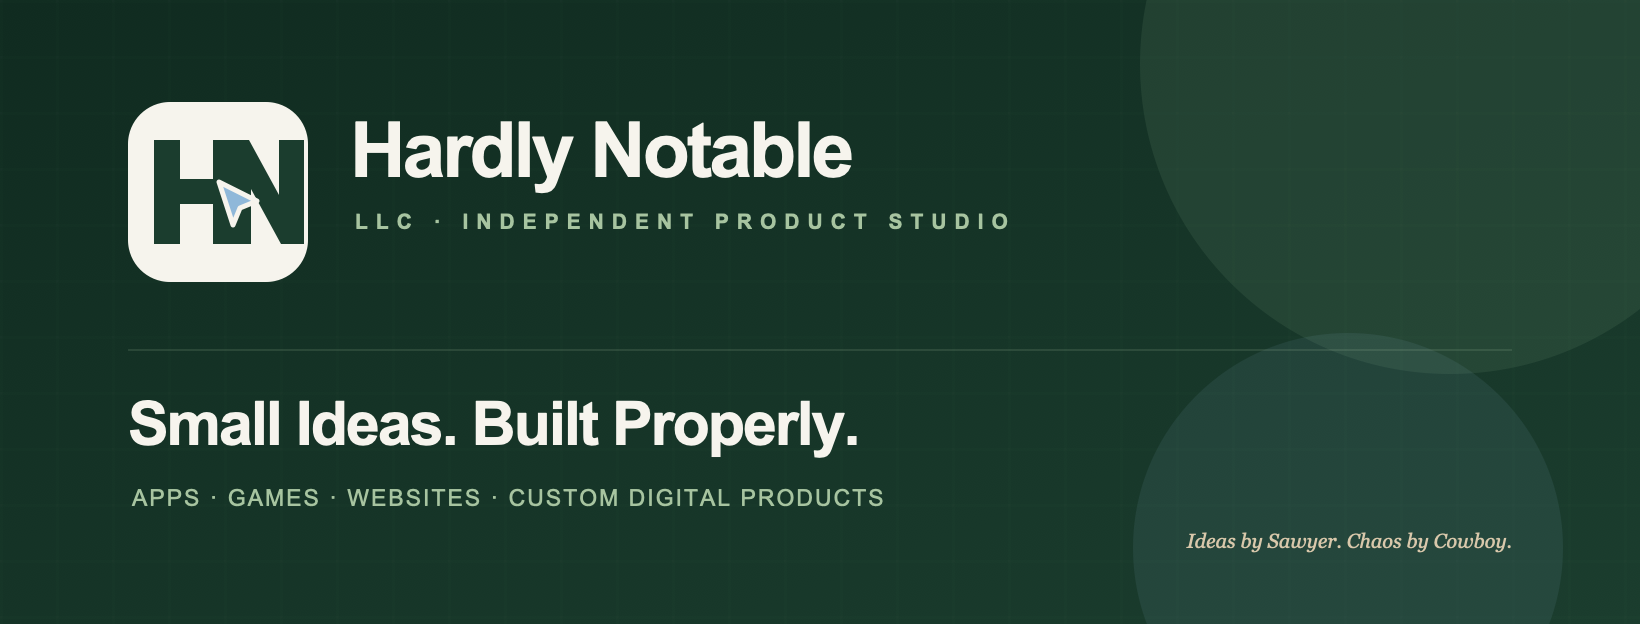
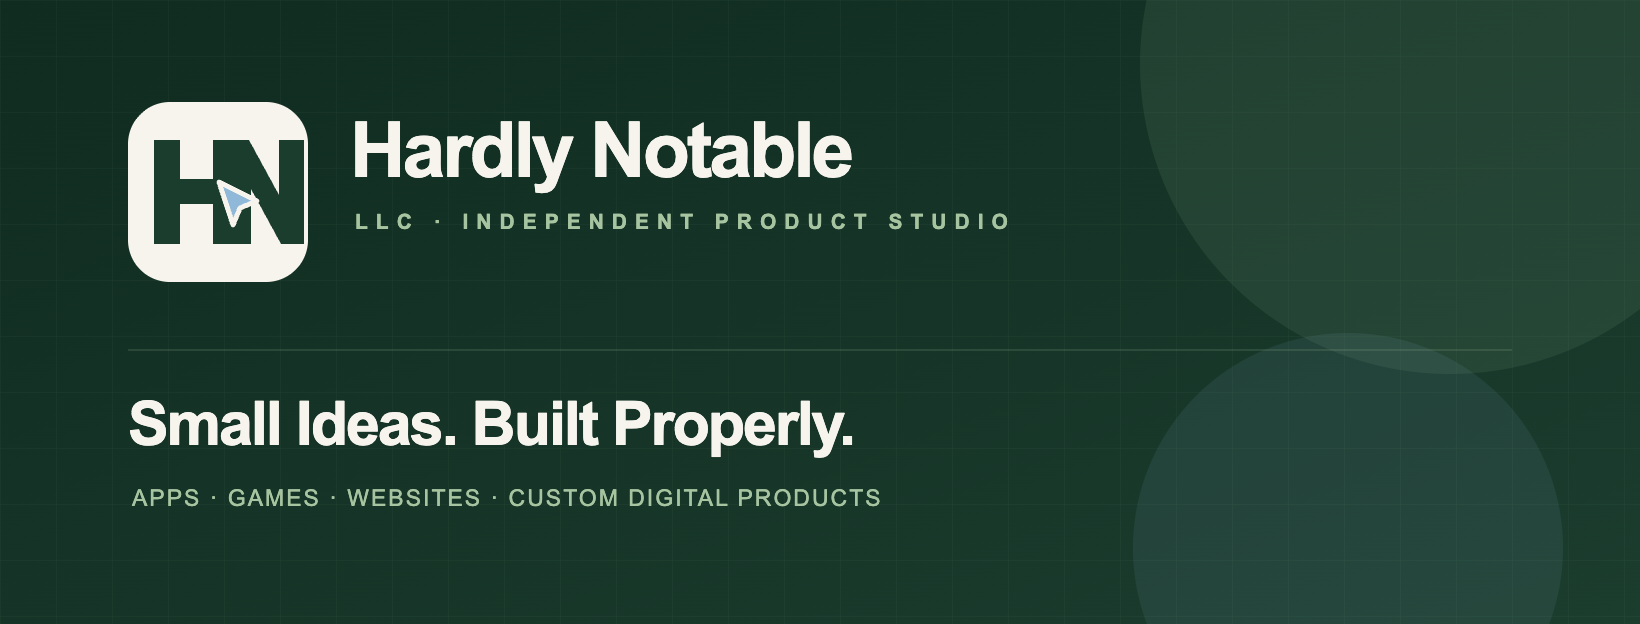
Make public studio content and inquiry wording brand-only

diff --git a/index.html b/index.html
@@ -15,18 +15,18 @@
   <meta property="og:title" content="Hardly Notable — Websites, Apps &amp; Business Tools">
   <meta property="og:description" content="A product studio turning good ideas into polished, working digital products.">
   <meta property="og:url" content="https://hardlynotable.com/">
-  <meta property="og:image" content="https://hardlynotable.com/assets/social/hn-facebook-cover.png">
+  <meta property="og:image" content="https://hardlynotable.com/assets/social/hn-facebook-cover.png?v=brand-20261021">
   <meta property="og:image:width" content="1640">
   <meta property="og:image:height" content="624">
   <meta property="og:image:alt" content="Hardly Notable LLC — Small Ideas. Built Properly.">
   <meta name="twitter:card" content="summary_large_image">
-  <meta name="twitter:image" content="https://hardlynotable.com/assets/social/hn-facebook-cover.png">
+  <meta name="twitter:image" content="https://hardlynotable.com/assets/social/hn-facebook-cover.png?v=brand-20261021">
   <script type="application/ld+json">{"@context":"https://schema.org","@type":"ProfessionalService","name":"Hardly Notable LLC","url":"https://hardlynotable.com/","logo":"https://hardlynotable.com/assets/social/hn-profile.png","description":"Independent product studio designing and building apps, websites, prototypes, and custom digital products.","slogan":"Small Ideas. Built Properly.","email":"hello@hardlynotable.com","areaServed":"US","sameAs":["https://www.instagram.com/hardlynotableco/","https://www.tiktok.com/@hardlynotableco","https://www.facebook.com/profile.php?id=61594366527522"]}</script>
 </head>
 <body><a class="skip-link" href="#main">Skip to content</a>
-<header class="site-header" id="top"><div class="shell nav-inner"><a class="brand" href="/" aria-label="Hardly Notable home"><img src="/assets/social/hn-profile.svg" width="44" height="44" alt=""><span>Hardly Notable<small>Independent product studio</small></span></a><nav class="desktop-nav" aria-label="Primary navigation"><a href="/websites/">Websites · $750</a><a href="/apps/">App development</a><a href="#selected-work">Selected work</a><a href="#work">Our apps</a><a class="button small" href="/start-a-project/">Discuss your project ↗</a></nav><details class="mobile-nav"><summary>Menu ＋</summary><nav aria-label="Mobile navigation"><a href="/websites/">Websites · $750</a><a href="/apps/">App development</a><a href="#selected-work">Selected work</a><a href="#work">Our apps</a><a href="#about">The studio</a><a href="/start-a-project/">Start a project ↗</a></nav></details></div></header>
+<header class="site-header" id="top"><div class="shell nav-inner"><a class="brand" href="/" aria-label="Hardly Notable home"><img src="/assets/social/hn-profile.svg" width="44" height="44" alt=""><span>Hardly Notable<small>Independent product studio</small></span></a><nav class="desktop-nav" aria-label="Primary navigation"><a href="/websites/">Websites · $750</a><a href="/apps/">App development</a><a href="#selected-work">Selected work</a><a href="#work">Our apps</a><a class="button small" href="/start-a-project/">Discuss your project ↗</a></nav><details class="mobile-nav"><summary>Menu ＋</summary><nav aria-label="Mobile navigation"><a href="/websites/">Websites · $750</a><a href="/apps/">App development</a><a href="#selected-work">Selected work</a><a href="#work">Our apps</a><a href="/start-a-project/">Start a project ↗</a></nav></details></div></header>
 <main id="main"><section class="hero shell client-hero" aria-labelledby="hero-title"><div class="hero-topline"><p class="eyebrow">Independent studio. Built around your business.</p><p class="location">Oklahoma · Working with people everywhere</p></div><div class="hero-grid"><div><h1 id="hero-title">Websites and custom apps<br><em>for small businesses.</em></h1><p class="studio-proposition">Websites, apps and practical tools for small businesses and founders. Clear scope, thoughtful design, and a useful thing you can put to work.</p><div class="hero-actions"><a class="button" href="/websites/">See the $750 website package</a><a class="button outline" href="/apps/">Explore custom apps ↗</a></div><p class="hero-detail">One-page websites from $750. Apps and custom tools quoted to fit the project.</p></div><aside class="client-proof" aria-label="Example business website layout"><div class="browser-chrome"><i></i><i></i><i></i><span>A service business, clearly presented</span></div><div class="mini-site"><div class="mini-nav">FIELDWORK <span>LAWN &amp; PROPERTY CARE</span></div><p class="eyebrow">A little care goes a long way.</p><h2>A yard you can<br>come home to.</h2><div class="mini-landscape" aria-hidden="true"><span></span><span></span><span></span></div><div class="mini-bottom"><strong>Seasonal cleanups.<br>Everyday peace of mind.</strong><a href="/examples/fieldwork/">Explore the example ↗</a></div></div><p class="demo-caption">Design concept by HN · Fictional business, not client work.</p></aside></div></section><section class="package-band" id="website-package"><div class="shell package-layout"><div><p class="eyebrow">A focused place to start</p><h2>One-page websites<br>for small businesses.</h2><p>Explain what you do, show your work and make it easy for someone to get in touch.</p></div><div class="package-summary"><p class="package-price">$750 <span>fixed project</span></p><ul><li>One custom page, up to six sections</li><li>Mobile and desktop layouts</li><li>Your existing call, email or booking route</li><li>One consolidated revision round</li><li>Setup on agreed client-controlled hosting</li></ul><a class="button" href="/websites/">What’s included ↗</a><p class="small-note">Hosting, domain and other provider fees are extra and agreed first. No automatic maintenance subscription.</p></div></div></section><section class="shell selected-work" id="selected-work"><div class="section-heading"><div><p class="eyebrow">Selected work</p><h2>See how we build.</h2></div><p>Our own products and a working design example.<br>Clear labels. Real things to explore.</p></div><div class="selected-grid"><a class="selected-card fieldwork-card" href="/examples/fieldwork/"><p class="eyebrow">Website design concept</p><h3>Fieldwork</h3><p>A service page with clear offers, project examples and a simple inquiry path.</p><span>Explore the working example ↗</span><small>Fictional business · Created by Hardly Notable</small></a><a class="selected-card lens-card" href="/product-lens/"><p class="eyebrow">HN-owned web product</p><h3>Product Lens</h3><p>A working planning tool that helps turn a rough idea into a focused first step.</p><span>Try Product Lens ↗</span><small>Our own product · Not a client case study</small></a></div></section><section class="services" id="services" aria-labelledby="services-title"><div class="shell services-layout"><div class="services-intro"><p class="eyebrow">Apps &amp; custom development</p><h2 id="services-title">More than a website.</h2><p>Need a simpler way to handle a business task? We build small custom apps and tools for focused workflows. Each project is evaluated case by case, with scope, price and a useful first version agreed before work begins.</p><a class="button cream" href="/apps/">Explore small custom apps ↗</a><span class="handwritten">A focused first step. A clear scope.</span></div><div class="service-list"><article><span>01</span><div><h3>Simple trackers</h3><p>Keep a focused list of jobs, requests or tasks in one place, with the fields and steps your business needs.</p></div></article><article><span>02</span><div><h3>Quote calculators</h3><p>Turn agreed pricing rules into a simple estimate tool. Confirm the inputs, calculations and limits first.</p></div></article><article><span>03</span><div><h3>Workflow prototypes</h3><p>Try one practical workflow before committing to a larger build. Start with the smallest version that helps.</p></div></article><article><span>04</span><div><h3>Scope agreed first</h3><p>Complex native apps, payments, customer portals and AI need separate evaluation. App pricing and ongoing support are agreed per project; they are not included in the $750 website package.</p></div></article></div></div></section><section class="case-study shell" id="case-study" aria-labelledby="case-title"><div class="case-intro"><p class="eyebrow">03 / One of our working products</p><h2 id="case-title">From a feature list<br>to a useful first step.</h2><p>Product Lens is our public AI-assisted planning tool. It helps someone with a rough idea decide what is worth building first.</p><a class="text-link" href="/product-lens/">Try Product Lens ↗</a></div><div class="case-example"><p class="eyebrow">A saved demonstration · Fictional workshop</p><div class="example-input"><span>01 / The starting idea</span><p>“An app with bookings, member chat, inventory and AI advice.”</p></div><span class="example-arrow" aria-hidden="true">↓</span><div class="example-output"><span>02 / The focused direction</span><h3>Prevent double-booked workshop sessions.</h3><p>Try a shared calendar or spreadsheet with overlap checks before building a custom app. Leave AI out of the first version.</p></div><small>Excerpted from a completed synthetic test. No customer results or live analysis shown.</small></div><dl class="case-decisions"><div><dt>The problem</dt><dd>A long feature list can hide the one problem that matters.</dd></div><div><dt>The decisions</dt><dd>Ask up to three useful questions. Separate facts from assumptions. Get permission before sending input for AI analysis.</dd></div><div><dt>The working result</dt><dd>A focused report and concrete next actions, with an optional email brief the user reviews before sending.</dd></div></dl></section><section class="work shell" id="work" aria-labelledby="work-title"><div class="section-heading"><div><p class="eyebrow">From our own studio</p><h2 id="work-title">Small worlds.<br>Worth getting lost in.</h2></div><p>We also develop our own apps and games.<br>Original work, still in development.</p></div><div class="product-grid">
 <article class="product"><div class="product-top"><span>Memory &amp; discovery</span></div><figure class="product-art recall-art"><img loading="lazy" src="/assets/showcase/recall.png" width="1024" height="1024" alt="A luminous blue butterfly beneath a glass dome in Recall’s cabinet of curiosities"><figcaption>Original game artwork</figcaption><button class="inspect-button" type="button" data-gallery="recall" aria-label="View original artwork">View original artwork ↗</button></figure><div class="product-title"><h3>Recall</h3><span aria-hidden="true">01</span></div><p class="release-status">Coming soon</p><p>Match pairs of curious objects. Remember what you’ve seen as the collection grows.</p></article>
 <article class="product"><div class="product-top"><span>A little farmyard logic</span></div><figure class="product-art critter-art native-pair"><span class="handwritten">Make room for everyone.</span><img class="screen-home" loading="lazy" src="/assets/showcase/critter-native-home.png" width="1320" height="2868" alt="Critter Clutter submitted iPhone build: home screen with Continue and How to play"><img class="screen-game" loading="lazy" src="/assets/showcase/critter-native-game.png" width="1320" height="2868" alt="Critter Clutter submitted iPhone build: Orchard Relay farm puzzle"><figcaption>Actual iPhone screens</figcaption><button class="inspect-button" type="button" data-gallery="critter" aria-label="Explore the game screens">Explore the game screens ↗</button></figure><div class="product-title"><h3>Critter Clutter</h3><span aria-hidden="true">02</span></div><p class="release-status">In development · Not available in the App Store</p><p>Tap a front herd. Keep a landing place free. Bring matching animal families home.</p></article>
-<article class="product"><div class="product-top"><span>After-hours problem solving</span></div><figure class="product-art night-art native-pair"><span class="handwritten">Order after dark.</span><img class="screen-home" loading="lazy" src="/assets/showcase/night-native-home.png" width="1320" height="2868" alt="Night Shift submitted iPhone build: home screen with Continue level 14"><img class="screen-game" loading="lazy" src="/assets/showcase/night-native-game.png" width="1320" height="2868" alt="Night Shift submitted iPhone build: Deep Storage freight puzzle"><figcaption>Actual iPhone screens</figcaption><button class="inspect-button" type="button" data-gallery="night" aria-label="Explore the game screens">Explore the game screens ↗</button></figure><div class="product-title"><h3>Night Shift</h3><span aria-hidden="true">03</span></div><p class="release-status">In development · Not available in the App Store</p><p>Dispatch matching cargo groups. Plan the truck order and keep the loading lanes clear.</p></article></div><div class="work-foot"><p>Not yet available in app stores. Follow along for release news.</p><a class="text-link" href="https://www.instagram.com/hardlynotableco/" target="_blank" rel="noopener noreferrer">Follow the studio ↗</a></div><details class="lab-note"><summary>Also on the workbench <span>Two more ideas in development</span></summary><div><p><strong>Brain Chaos</strong> — a collection of quick, changing challenges.</p><p><strong>Match/Decision</strong> — private picks and shared reveals to help settle the debate.</p><p>Still in development. No release dates announced.</p></div></details></section><section class="about shell" id="about" aria-labelledby="about-title"><div class="about-photo"><img src="/assets/brand/sawyer-cowboy-studio-v2.png" width="1586" height="992" loading="lazy" alt="Sawyer and Cowboy, two dogs who helped inspire Hardly Notable"><p><span class="handwritten">The original motivation.</span><span>Sawyer &amp; Cowboy</span></p></div><div class="about-copy"><p class="eyebrow">Why Hardly Notable exists</p><h2 id="about-title">The work is technology.<br><span>The reason is personal.</span></h2><p class="about-lead">Hardly Notable was founded in memory of family whose lives continue to shape the standards behind the work: show up, make something meaningful, and leave more behind than you found.</p><p>Sawyer and Cowboy are a big part of why I started Hardly Notable. They inspired me to build a life with more freedom—one where I could give them the very best, be present for the ordinary moments, and spend more time with the ones who matter most. They are not what we build; they are part of the reason I chose to build something of my own.</p><div class="memorials"><article><span>In honored memory</span><strong>SSG Michael R. Robson</strong><small>Killed in action · February 27, 1991</small></article><article><span>In loving memory</span><strong>Dallas Hight</strong><small>July 4, 2026</small></article></div></div></section><section class="contact shell" aria-labelledby="contact-title"><p class="eyebrow">Let’s make the next step useful.</p><div><h2 id="contact-title">What does your<br>business need?</h2><a class="contact-circle" href="/start-a-project/" aria-label="Discuss a project">↗</a></div><div class="contact-options"><a class="button" href="/websites/#inquire">Ask about the $750 website</a><a class="text-link" href="/start-a-project/">Discuss an app or custom project ↗</a></div><p><a class="contact-email" href="mailto:hello@hardlynotable.com">hello@hardlynotable.com</a></p></section></main>  <footer class="site-footer"><div class="shell footer-grid"><div><a class="footer-brand" href="#top"><img src="/assets/social/hn-profile.svg" width="42" height="42" alt=""><span>Hardly Notable LLC<small>Small Ideas. Built Properly.</small></span></a><p>Independent product studio · Oklahoma</p><p>© 2026 Hardly Notable LLC. All rights reserved.</p></div><nav aria-label="Footer navigation"><a href="/websites/">Website package · $750</a><a href="/apps/">App development</a><a href="#work">Our products</a><a href="#case-study">Product Lens demonstration</a><a href="/start-a-project/">Start a project</a><a href="/submissions/">Writing submissions</a><a href="/app-privacy/">App privacy</a><a href="/app-support/">Product support</a><a href="mailto:hello@hardlynotable.com">hello@hardlynotable.com</a><a href="mailto:support@hardlynotable.com">support@hardlynotable.com</a></nav><div class="footer-social"><a href="https://www.instagram.com/hardlynotableco/" target="_blank" rel="noopener noreferrer">Instagram</a><a href="https://www.tiktok.com/@hardlynotableco" target="_blank" rel="noopener noreferrer">TikTok</a><a href="https://www.facebook.com/profile.php?id=61594366527522" target="_blank" rel="noopener noreferrer">Facebook</a></div></div></footer>
+<article class="product"><div class="product-top"><span>After-hours problem solving</span></div><figure class="product-art night-art native-pair"><span class="handwritten">Order after dark.</span><img class="screen-home" loading="lazy" src="/assets/showcase/night-native-home.png" width="1320" height="2868" alt="Night Shift submitted iPhone build: home screen with Continue level 14"><img class="screen-game" loading="lazy" src="/assets/showcase/night-native-game.png" width="1320" height="2868" alt="Night Shift submitted iPhone build: Deep Storage freight puzzle"><figcaption>Actual iPhone screens</figcaption><button class="inspect-button" type="button" data-gallery="night" aria-label="Explore the game screens">Explore the game screens ↗</button></figure><div class="product-title"><h3>Night Shift</h3><span aria-hidden="true">03</span></div><p class="release-status">In development · Not available in the App Store</p><p>Dispatch matching cargo groups. Plan the truck order and keep the loading lanes clear.</p></article></div><div class="work-foot"><p>Not yet available in app stores. Follow along for release news.</p><a class="text-link" href="https://www.instagram.com/hardlynotableco/" target="_blank" rel="noopener noreferrer">Follow the studio ↗</a></div><details class="lab-note"><summary>Also on the workbench <span>Two more ideas in development</span></summary><div><p><strong>Brain Chaos</strong> — a collection of quick, changing challenges.</p><p><strong>Match/Decision</strong> — private picks and shared reveals to help settle the debate.</p><p>Still in development. No release dates announced.</p></div></details></section><section class="contact shell" aria-labelledby="contact-title"><p class="eyebrow">Let’s make the next step useful.</p><div><h2 id="contact-title">What does your<br>business need?</h2><a class="contact-circle" href="/start-a-project/" aria-label="Discuss a project">↗</a></div><div class="contact-options"><a class="button" href="/websites/#inquire">Ask about the $750 website</a><a class="text-link" href="/start-a-project/">Discuss an app or custom project ↗</a></div><p><a class="contact-email" href="mailto:hello@hardlynotable.com">hello@hardlynotable.com</a></p></section></main>  <footer class="site-footer"><div class="shell footer-grid"><div><a class="footer-brand" href="#top"><img src="/assets/social/hn-profile.svg" width="42" height="42" alt=""><span>Hardly Notable LLC<small>Small Ideas. Built Properly.</small></span></a><p>Independent product studio · Oklahoma</p><p>© 2026 Hardly Notable LLC. All rights reserved.</p></div><nav aria-label="Footer navigation"><a href="/websites/">Website package · $750</a><a href="/apps/">App development</a><a href="#work">Our products</a><a href="#case-study">Product Lens demonstration</a><a href="/start-a-project/">Start a project</a><a href="/submissions/">Writing submissions</a><a href="/app-privacy/">App privacy</a><a href="/app-support/">Product support</a><a href="mailto:hello@hardlynotable.com">hello@hardlynotable.com</a><a href="mailto:support@hardlynotable.com">support@hardlynotable.com</a></nav><div class="footer-social"><a href="https://www.instagram.com/hardlynotableco/" target="_blank" rel="noopener noreferrer">Instagram</a><a href="https://www.tiktok.com/@hardlynotableco" target="_blank" rel="noopener noreferrer">TikTok</a><a href="https://www.facebook.com/profile.php?id=61594366527522" target="_blank" rel="noopener noreferrer">Facebook</a></div></div></footer>
 <dialog class="image-dialog" aria-labelledby="gallery-title"><div class="gallery-frame"><header><div><p class="eyebrow">A closer look</p><h2 id="gallery-title"></h2></div><button class="gallery-close" type="button" autofocus>Close ×</button></header><figure><img id="gallery-image" alt=""><figcaption id="gallery-caption" aria-live="polite"></figcaption></figure><footer><button class="gallery-prev" type="button" aria-label="Previous screenshot">← Previous</button><a id="gallery-original" target="_blank" rel="noopener noreferrer">Open full-size image ↗</a><button class="gallery-next" type="button" aria-label="Next screenshot">Next →</button></footer></div></dialog><script src="/assets/home-ui.js" defer></script></body></html>

diff --git a/websites/index.html b/websites/index.html
@@ -1,1 +1,1 @@
-<!doctype html><html lang="en"><head><meta charset="utf-8"><meta name="viewport" content="width=device-width,initial-scale=1"><title>One-page Websites for Small Businesses · $750 — Hardly Notable</title><meta name="description" content="A focused one-page business website for $750. Mobile and desktop design, one revision round, and setup on your hosting."><link rel="canonical" href="https://hardlynotable.com/websites/"><link rel="icon" href="/assets/social/hn-profile.svg"><link rel="stylesheet" href="/assets/site.css"><link rel="stylesheet" href="/assets/client.css"></head><body><a class="skip-link" href="#main">Skip to content</a><header class="site-header"><div class="shell nav-inner"><a class="brand" href="/"><img src="/assets/social/hn-profile.svg" width="44" height="44" alt=""><span>Hardly Notable<small>Independent product studio</small></span></a><a class="text-link" href="/apps/">Custom apps ↗</a></div></header><main id="main"><section class="shell website-hero"><p class="eyebrow">For small businesses with something to offer</p><h1>One-page websites<br><em>for small businesses.</em></h1><p class="studio-proposition">A focused page to explain your services, show your work and help customers take the next step.</p><p class="package-price">$750 <span>fixed project</span></p><div class="hero-actions"><a class="button" href="#inquire">Ask about this package ↗</a><a class="text-link" href="/examples/fieldwork/">Explore a working example ↗</a></div></section><section class="shell package-details"><div><p class="eyebrow">Included</p><h2>The essentials,<br>done with care.</h2><ul><li>One custom landing page with up to six sections, using your supplied text, logo and images.</li><li>Mobile and desktop layouts, clear navigation and one main action: calling, emailing or visiting an existing booking page.</li><li>Basic page title, description, social preview and accessible structure.</li><li>One consolidated round of revisions within the agreed scope.</li><li>Delivery of site files and setup on agreed client-controlled hosting, including one existing domain when access is provided.</li><li>A 14-day window after launch for correcting defects in the agreed work.</li></ul></div><aside><p class="eyebrow">A good fit for</p><h3>A service people<br>can understand.</h3><p>Local services, independent professionals, a focused campaign or a small business that needs one useful place to send people.</p><p>It can be a new site or a page alongside your existing one. We confirm that your hosting supports the work before payment.</p><a class="text-link" href="/examples/fieldwork/">View the Fieldwork concept ↗</a></aside></section><section class="package-band"><div class="shell package-layout"><div><p class="eyebrow">A straightforward process</p><h2>Agree. Build.<br>Review. Launch.</h2></div><ol class="delivery-steps"><li><strong>Agree the scope and start date.</strong> We confirm content, hosting, ownership, acceptance and cancellation/refund terms in your project agreement.</li><li><strong>$375 deposit to begin.</strong> The proposed delivery window is 7–10 business days after the deposit, complete content and required access are received. Your actual start date is agreed first.</li><li><strong>Review the finished preview.</strong> Send one consolidated set of revisions within scope.</li><li><strong>$375 balance before publication.</strong> After preview approval, we arrange launch and handover. No automatic monthly maintenance fee.</li></ol></div></section><section class="shell exclusions"><h2>What costs extra?</h2><p>Hosting, domain registration and third-party fees are paid directly by you and agreed before commitment. Additional pages, extensive copywriting, branding, photography, online stores, payments, customer accounts, custom booking systems, AI features and ongoing updates are separately scoped.</p><p>Changes to the agreed scope are quoted before work starts. The package does not promise search rankings or sales results.</p></section><section class="shell inquiry-section" id="inquire"><div><p class="eyebrow">A small first step</p><h2>Interested?<br>Tell Ty a little.</h2><p>No deposit or commitment here. Start by email and we’ll work out whether the scope and timing fit.</p><p><a href="mailto:hello@hardlynotable.com?subject=Website%20package%20inquiry">Email hello@hardlynotable.com directly ↗</a></p><p class="small-note">This form prepares an email on your device. Nothing is sent or uploaded until you choose to send the email.</p></div><form id="website-inquiry" class="short-inquiry"><label for="name">Your name *</label><input id="name" name="name" autocomplete="name" maxlength="120" required><label for="email">Your email *</label><input id="email" name="email" autocomplete="email" type="email" maxlength="200" required><label for="business">Business name or existing website</label><input id="business" name="business" maxlength="250"><label for="goal">What would you like the page to do?</label><textarea id="goal" name="goal" maxlength="1500" rows="4" placeholder="For example: explain our services and help people request a quote."></textarea><button class="button" type="submit">Prepare my email ↗</button><p id="inquiry-status" role="status"></p><div id="email-preview" hidden><label for="email-text">Your email — review before sending</label><textarea id="email-text" readonly rows="12"></textarea><div class="hero-actions"><a id="email-link" class="button" href="mailto:hello@hardlynotable.com">Open email app ↗</a><button id="copy-email" class="button outline" type="button">Select text to copy</button></div><p class="small-note">If your email app does not open, copy the text into an email to hello@hardlynotable.com.</p></div><noscript><p>JavaScript is off. Use the direct email link to ask about the $750 package.</p></noscript></form></section></main><footer class="site-footer"><div class="shell"><a href="/" style="color:inherit">Hardly Notable LLC · Small Ideas. Built Properly.</a><p>© 2026 · Oklahoma · <a href="/apps/" style="color:inherit">Apps and custom projects</a></p></div></footer><script src="/assets/website-inquiry.js" defer></script></body></html>
+<!doctype html><html lang="en"><head><meta charset="utf-8"><meta name="viewport" content="width=device-width,initial-scale=1"><title>One-page Websites for Small Businesses · $750 — Hardly Notable</title><meta name="description" content="A focused one-page business website for $750. Mobile and desktop design, one revision round, and setup on your hosting."><link rel="canonical" href="https://hardlynotable.com/websites/"><link rel="icon" href="/assets/social/hn-profile.svg"><link rel="stylesheet" href="/assets/site.css"><link rel="stylesheet" href="/assets/client.css"></head><body><a class="skip-link" href="#main">Skip to content</a><header class="site-header"><div class="shell nav-inner"><a class="brand" href="/"><img src="/assets/social/hn-profile.svg" width="44" height="44" alt=""><span>Hardly Notable<small>Independent product studio</small></span></a><a class="text-link" href="/apps/">Custom apps ↗</a></div></header><main id="main"><section class="shell website-hero"><p class="eyebrow">For small businesses with something to offer</p><h1>One-page websites<br><em>for small businesses.</em></h1><p class="studio-proposition">A focused page to explain your services, show your work and help customers take the next step.</p><p class="package-price">$750 <span>fixed project</span></p><div class="hero-actions"><a class="button" href="#inquire">Ask about this package ↗</a><a class="text-link" href="/examples/fieldwork/">Explore a working example ↗</a></div></section><section class="shell package-details"><div><p class="eyebrow">Included</p><h2>The essentials,<br>done with care.</h2><ul><li>One custom landing page with up to six sections, using your supplied text, logo and images.</li><li>Mobile and desktop layouts, clear navigation and one main action: calling, emailing or visiting an existing booking page.</li><li>Basic page title, description, social preview and accessible structure.</li><li>One consolidated round of revisions within the agreed scope.</li><li>Delivery of site files and setup on agreed client-controlled hosting, including one existing domain when access is provided.</li><li>A 14-day window after launch for correcting defects in the agreed work.</li></ul></div><aside><p class="eyebrow">A good fit for</p><h3>A service people<br>can understand.</h3><p>Local services, independent professionals, a focused campaign or a small business that needs one useful place to send people.</p><p>It can be a new site or a page alongside your existing one. We confirm that your hosting supports the work before payment.</p><a class="text-link" href="/examples/fieldwork/">View the Fieldwork concept ↗</a></aside></section><section class="package-band"><div class="shell package-layout"><div><p class="eyebrow">A straightforward process</p><h2>Agree. Build.<br>Review. Launch.</h2></div><ol class="delivery-steps"><li><strong>Agree the scope and start date.</strong> We confirm content, hosting, ownership, acceptance and cancellation/refund terms in your project agreement.</li><li><strong>$375 deposit to begin.</strong> The proposed delivery window is 7–10 business days after the deposit, complete content and required access are received. Your actual start date is agreed first.</li><li><strong>Review the finished preview.</strong> Send one consolidated set of revisions within scope.</li><li><strong>$375 balance before publication.</strong> After preview approval, we arrange launch and handover. No automatic monthly maintenance fee.</li></ol></div></section><section class="shell exclusions"><h2>What costs extra?</h2><p>Hosting, domain registration and third-party fees are paid directly by you and agreed before commitment. Additional pages, extensive copywriting, branding, photography, online stores, payments, customer accounts, custom booking systems, AI features and ongoing updates are separately scoped.</p><p>Changes to the agreed scope are quoted before work starts. The package does not promise search rankings or sales results.</p></section><section class="shell inquiry-section" id="inquire"><div><p class="eyebrow">A small first step</p><h2>Interested?<br>Tell us about your website.</h2><p>No deposit or commitment here. Start by email and we’ll work out whether the scope and timing fit.</p><p><a href="mailto:hello@hardlynotable.com?subject=Website%20package%20inquiry">Email hello@hardlynotable.com directly ↗</a></p><p class="small-note">This form prepares an email on your device. Nothing is sent or uploaded until you choose to send the email.</p></div><form id="website-inquiry" class="short-inquiry"><label for="name">Your name *</label><input id="name" name="name" autocomplete="name" maxlength="120" required><label for="email">Your email *</label><input id="email" name="email" autocomplete="email" type="email" maxlength="200" required><label for="business">Business name or existing website</label><input id="business" name="business" maxlength="250"><label for="goal">What would you like the page to do?</label><textarea id="goal" name="goal" maxlength="1500" rows="4" placeholder="For example: explain our services and help people request a quote."></textarea><button class="button" type="submit">Prepare my email ↗</button><p id="inquiry-status" role="status"></p><div id="email-preview" hidden><label for="email-text">Your email — review before sending</label><textarea id="email-text" readonly rows="12"></textarea><div class="hero-actions"><a id="email-link" class="button" href="mailto:hello@hardlynotable.com">Open email app ↗</a><button id="copy-email" class="button outline" type="button">Select text to copy</button></div><p class="small-note">If your email app does not open, copy the text into an email to hello@hardlynotable.com.</p></div><noscript><p>JavaScript is off. Use the direct email link to ask about the $750 package.</p></noscript></form></section></main><footer class="site-footer"><div class="shell"><a href="/" style="color:inherit">Hardly Notable LLC · Small Ideas. Built Properly.</a><p>© 2026 · Oklahoma · <a href="/apps/" style="color:inherit">Apps and custom projects</a></p></div></footer><script src="/assets/website-inquiry.js" defer></script></body></html>

diff --git a/examples/fieldwork/index.html b/examples/fieldwork/index.html
@@ -1,1 +1,1 @@
-<!doctype html><html lang="en"><head><meta charset="utf-8"><meta name="viewport" content="width=device-width,initial-scale=1"><meta name="description" content="A fictional lawn-care website concept by Hardly Notable. Explore a focused service page and inquiry experience."><meta name="robots" content="noindex,follow"><link rel="canonical" href="https://hardlynotable.com/examples/fieldwork/"><title>Fieldwork · Website Concept by Hardly Notable</title><link rel="stylesheet" href="/assets/fieldwork.css"></head><body><a class="skip" href="#main">Skip to content</a><div class="concept-banner"><span><strong>HN design concept.</strong> Fieldwork is fictional. This is not client work or an operating service.</span><a href="/websites/">Get a page like this · $750 ↗</a></div><header><div class="wrap navigation"><a class="wordmark" href="#">FIELDWORK<span>LAWN &amp; PROPERTY CARE</span></a><nav aria-label="Main navigation"><a href="#services">Services</a><a href="#approach">Our approach</a><a class="pill" href="#quote">Plan your cleanup ↗</a></nav></div></header><main id="main"><section class="hero wrap"><div><p class="eyebrow">Good spaces. A little more cared for.</p><h1>A yard you can<br>come home to.</h1><p class="intro">Seasonal cleanups, tidy garden beds and the everyday care that makes your outdoor space feel like yours again.</p><a href="#quote" class="button">Tell us about your yard ↗</a><p class="fine">An example of a clear service-business website.</p></div><div class="yard-art" role="img" aria-label="Illustration of a green garden with a winding path, trees and a warm sun"><div class="sun"></div><div class="hill back"></div><div class="hill front"></div><div class="path"></div><div class="tree one"></div><div class="tree two"></div><div class="plant p1"></div><div class="plant p2"></div><div class="art-note">A little care.<br>A better place to be.</div></div></section><section id="services" class="services wrap"><div class="heading"><p class="eyebrow">Room to grow.</p><h2>The right help<br>for your little outdoors.</h2><p>Three service groups give visitors a simple starting point. The descriptions below are example copy for this concept.</p></div><div class="cards"><article><span>01 / CLEAR THE WAY</span><h3>Seasonal cleanups</h3><p>Leaves, fallen branches and an overgrown corner. A useful reset when your yard needs some attention.</p><a href="#quote" data-service="Seasonal cleanup">Plan a cleanup ↗</a></article><article><span>02 / KEEP IT GROWING</span><h3>Garden-bed care</h3><p>Fresh mulch, a cleaner edge and a little room for the things you want to grow.</p><a href="#quote" data-service="Garden-bed care">Ask about your beds ↗</a></article><article><span>03 / THE EVERYDAY</span><h3>Regular lawn care</h3><p>A neat cut and a tidy finish. Consistent care around the needs of your property.</p><a href="#quote" data-service="Regular lawn care">Discuss regular care ↗</a></article></div></section><section id="approach" class="approach"><div class="wrap approach-grid"><div><p class="eyebrow">Simple from the start.</p><h2>A conversation.<br>A clear plan.<br>A cared-for space.</h2></div><ol><li><strong>Tell us what needs a little help.</strong><p>Your property, your priorities and the kind of work you have in mind.</p></li><li><strong>Agree the work before it starts.</strong><p>Confirm the scope, price and timing for your space.</p></li><li><strong>Enjoy the difference.</strong><p>Put your outdoor space back to use.</p></li></ol></div></section><section class="wrap detail"><p class="eyebrow">Built for trust</p><h2>Let the work speak.</h2><p>A real business could use this space for its own before-and-after photos, service area and verified customer feedback. This concept uses illustration and contains no invented reviews or project results.</p><a href="/websites/" class="text-link">See what Hardly Notable includes ↗</a></section><section id="quote" class="wrap quote"><div><p class="eyebrow">Make the next step easy.</p><h2>What could your<br>yard use?</h2><p>A short form helps someone start a conversation. Try the example to see a prepared inquiry.</p><p class="fine"><strong>Demo only:</strong> no service is booked. Nothing is sent, saved or uploaded. Please use example information.</p></div><form id="demo-inquiry"><label for="name">Name</label><input id="name" name="name" placeholder="Example name" maxlength="100" required><label for="service">What needs attention?</label><select id="service" name="service"><option>Seasonal cleanup</option><option>Garden-bed care</option><option>Regular lawn care</option><option>Not sure yet</option></select><label for="notes">A little about the job</label><textarea id="notes" name="notes" rows="3" maxlength="1000" placeholder="Example: leaves and overgrown beds in a small front yard."></textarea><button class="button" type="submit">Preview example inquiry ↗</button><div id="result" hidden><h3>Your example inquiry</h3><p id="summary"></p><p class="fine">A real site can connect this step to your existing email or booking route. This demo does not send anything.</p><a href="/websites/#inquire">Discuss your real website with Ty ↗</a></div><p id="status" role="status"></p><noscript><p>This demo preview needs JavaScript. No inquiry is transmitted.</p></noscript></form></section></main><footer><div class="wrap"><a class="wordmark" href="#">FIELDWORK<span>A FICTIONAL BUSINESS · HN DESIGN CONCEPT</span></a><p>Designed and built by <a href="/">Hardly Notable</a>.</p><a href="/websites/">Explore the $750 website package ↗</a></div></footer><script src="/assets/fieldwork.js" defer></script></body></html>
+<!doctype html><html lang="en"><head><meta charset="utf-8"><meta name="viewport" content="width=device-width,initial-scale=1"><meta name="description" content="A fictional lawn-care website concept by Hardly Notable. Explore a focused service page and inquiry experience."><meta name="robots" content="noindex,follow"><link rel="canonical" href="https://hardlynotable.com/examples/fieldwork/"><title>Fieldwork · Website Concept by Hardly Notable</title><link rel="stylesheet" href="/assets/fieldwork.css"></head><body><a class="skip" href="#main">Skip to content</a><div class="concept-banner"><span><strong>HN design concept.</strong> Fieldwork is fictional. This is not client work or an operating service.</span><a href="/websites/">Get a page like this · $750 ↗</a></div><header><div class="wrap navigation"><a class="wordmark" href="#">FIELDWORK<span>LAWN &amp; PROPERTY CARE</span></a><nav aria-label="Main navigation"><a href="#services">Services</a><a href="#approach">Our approach</a><a class="pill" href="#quote">Plan your cleanup ↗</a></nav></div></header><main id="main"><section class="hero wrap"><div><p class="eyebrow">Good spaces. A little more cared for.</p><h1>A yard you can<br>come home to.</h1><p class="intro">Seasonal cleanups, tidy garden beds and the everyday care that makes your outdoor space feel like yours again.</p><a href="#quote" class="button">Tell us about your yard ↗</a><p class="fine">An example of a clear service-business website.</p></div><div class="yard-art" role="img" aria-label="Illustration of a green garden with a winding path, trees and a warm sun"><div class="sun"></div><div class="hill back"></div><div class="hill front"></div><div class="path"></div><div class="tree one"></div><div class="tree two"></div><div class="plant p1"></div><div class="plant p2"></div><div class="art-note">A little care.<br>A better place to be.</div></div></section><section id="services" class="services wrap"><div class="heading"><p class="eyebrow">Room to grow.</p><h2>The right help<br>for your little outdoors.</h2><p>Three service groups give visitors a simple starting point. The descriptions below are example copy for this concept.</p></div><div class="cards"><article><span>01 / CLEAR THE WAY</span><h3>Seasonal cleanups</h3><p>Leaves, fallen branches and an overgrown corner. A useful reset when your yard needs some attention.</p><a href="#quote" data-service="Seasonal cleanup">Plan a cleanup ↗</a></article><article><span>02 / KEEP IT GROWING</span><h3>Garden-bed care</h3><p>Fresh mulch, a cleaner edge and a little room for the things you want to grow.</p><a href="#quote" data-service="Garden-bed care">Ask about your beds ↗</a></article><article><span>03 / THE EVERYDAY</span><h3>Regular lawn care</h3><p>A neat cut and a tidy finish. Consistent care around the needs of your property.</p><a href="#quote" data-service="Regular lawn care">Discuss regular care ↗</a></article></div></section><section id="approach" class="approach"><div class="wrap approach-grid"><div><p class="eyebrow">Simple from the start.</p><h2>A conversation.<br>A clear plan.<br>A cared-for space.</h2></div><ol><li><strong>Tell us what needs a little help.</strong><p>Your property, your priorities and the kind of work you have in mind.</p></li><li><strong>Agree the work before it starts.</strong><p>Confirm the scope, price and timing for your space.</p></li><li><strong>Enjoy the difference.</strong><p>Put your outdoor space back to use.</p></li></ol></div></section><section class="wrap detail"><p class="eyebrow">Built for trust</p><h2>Let the work speak.</h2><p>A real business could use this space for its own before-and-after photos, service area and verified customer feedback. This concept uses illustration and contains no invented reviews or project results.</p><a href="/websites/" class="text-link">See what Hardly Notable includes ↗</a></section><section id="quote" class="wrap quote"><div><p class="eyebrow">Make the next step easy.</p><h2>What could your<br>yard use?</h2><p>A short form helps someone start a conversation. Try the example to see a prepared inquiry.</p><p class="fine"><strong>Demo only:</strong> no service is booked. Nothing is sent, saved or uploaded. Please use example information.</p></div><form id="demo-inquiry"><label for="name">Name</label><input id="name" name="name" placeholder="Example name" maxlength="100" required><label for="service">What needs attention?</label><select id="service" name="service"><option>Seasonal cleanup</option><option>Garden-bed care</option><option>Regular lawn care</option><option>Not sure yet</option></select><label for="notes">A little about the job</label><textarea id="notes" name="notes" rows="3" maxlength="1000" placeholder="Example: leaves and overgrown beds in a small front yard."></textarea><button class="button" type="submit">Preview example inquiry ↗</button><div id="result" hidden><h3>Your example inquiry</h3><p id="summary"></p><p class="fine">A real site can connect this step to your existing email or booking route. This demo does not send anything.</p><a href="/websites/#inquire">Discuss your website with Hardly Notable ↗</a></div><p id="status" role="status"></p><noscript><p>This demo preview needs JavaScript. No inquiry is transmitted.</p></noscript></form></section></main><footer><div class="wrap"><a class="wordmark" href="#">FIELDWORK<span>A FICTIONAL BUSINESS · HN DESIGN CONCEPT</span></a><p>Designed and built by <a href="/">Hardly Notable</a>.</p><a href="/websites/">Explore the $750 website package ↗</a></div></footer><script src="/assets/fieldwork.js" defer></script></body></html>

diff --git a/apps/index.html b/apps/index.html
@@ -5,7 +5,7 @@
 <meta name="description" content="Focused custom apps and business tools from an Oklahoma studio. Explore trackers, quote calculators and workflow prototypes, with scope and pricing agreed first.">
 <meta name="robots" content="index,follow"><link rel="canonical" href="https://hardlynotable.com/apps/">
 <meta name="theme-color" content="#102d22"><link rel="icon" href="/assets/social/hn-profile.svg"><link rel="stylesheet" href="/assets/site.css"><link rel="stylesheet" href="/assets/client.css">
-<meta property="og:type" content="website"><meta property="og:site_name" content="Hardly Notable"><meta property="og:title" content="Custom Apps for Small Businesses | Hardly Notable"><meta property="og:description" content="Focused custom apps and business tools, with scope and pricing agreed first."><meta property="og:url" content="https://hardlynotable.com/apps/"><meta property="og:image" content="https://hardlynotable.com/assets/social/hn-facebook-cover.png">
+<meta property="og:type" content="website"><meta property="og:site_name" content="Hardly Notable"><meta property="og:title" content="Custom Apps for Small Businesses | Hardly Notable"><meta property="og:description" content="Focused custom apps and business tools, with scope and pricing agreed first."><meta property="og:url" content="https://hardlynotable.com/apps/"><meta property="og:image" content="https://hardlynotable.com/assets/social/hn-facebook-cover.png?v=brand-20261021">
 </head><body><a class="skip-link" href="#main">Skip to content</a>
 <header class="site-header"><div class="shell nav-inner"><a class="brand" href="/"><img src="/assets/social/hn-profile.svg" width="44" height="44" alt=""><span>Hardly Notable<small>Independent product studio</small></span></a><a class="text-link" href="/websites/">Website package ↗</a></div></header>
 <main id="main">

diff --git a/assets/website-inquiry.js b/assets/website-inquiry.js
@@ -7,7 +7,7 @@ form?.addEventListener('submit', event => {
   const data = new FormData(form);
   const value = key => String(data.get(key) || '').trim() || 'Not provided';
   const subject = '$750 website package inquiry';
-  const body = `Hi Ty,\n\nI'm interested in the $750 one-page website package.\n\nName: ${value('name')}\nEmail: ${value('email')}\nBusiness / existing website: ${value('business')}\n\nWhat I would like the page to do:\n${value('goal')}\n\nPlease let me know whether the scope and timing fit.\n\nPrepared at hardlynotable.com/websites/`;
+  const body = `Hello Hardly Notable,\n\nI'm interested in the $750 one-page website package.\n\nName: ${value('name')}\nEmail: ${value('email')}\nBusiness / existing website: ${value('business')}\n\nWhat I would like the page to do:\n${value('goal')}\n\nPlease let me know whether the scope and timing fit.\n\nPrepared at hardlynotable.com/websites/`;
   document.querySelector('#email-text').value = `To: hello@hardlynotable.com\nSubject: ${subject}\n\n${body}`;
   document.querySelector('#email-link').href = `mailto:hello@hardlynotable.com?subject=${encodeURIComponent(subject)}&body=${encodeURIComponent(body)}`;
   preview.hidden = false;
